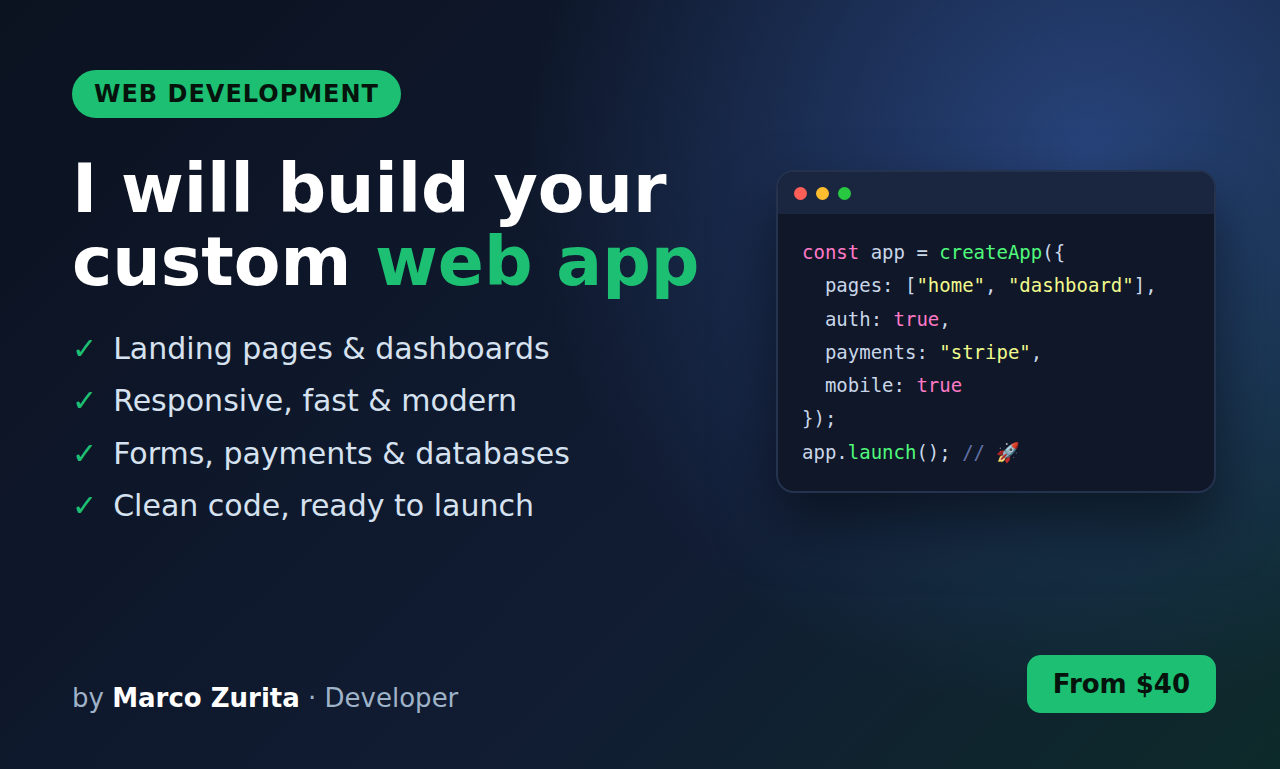
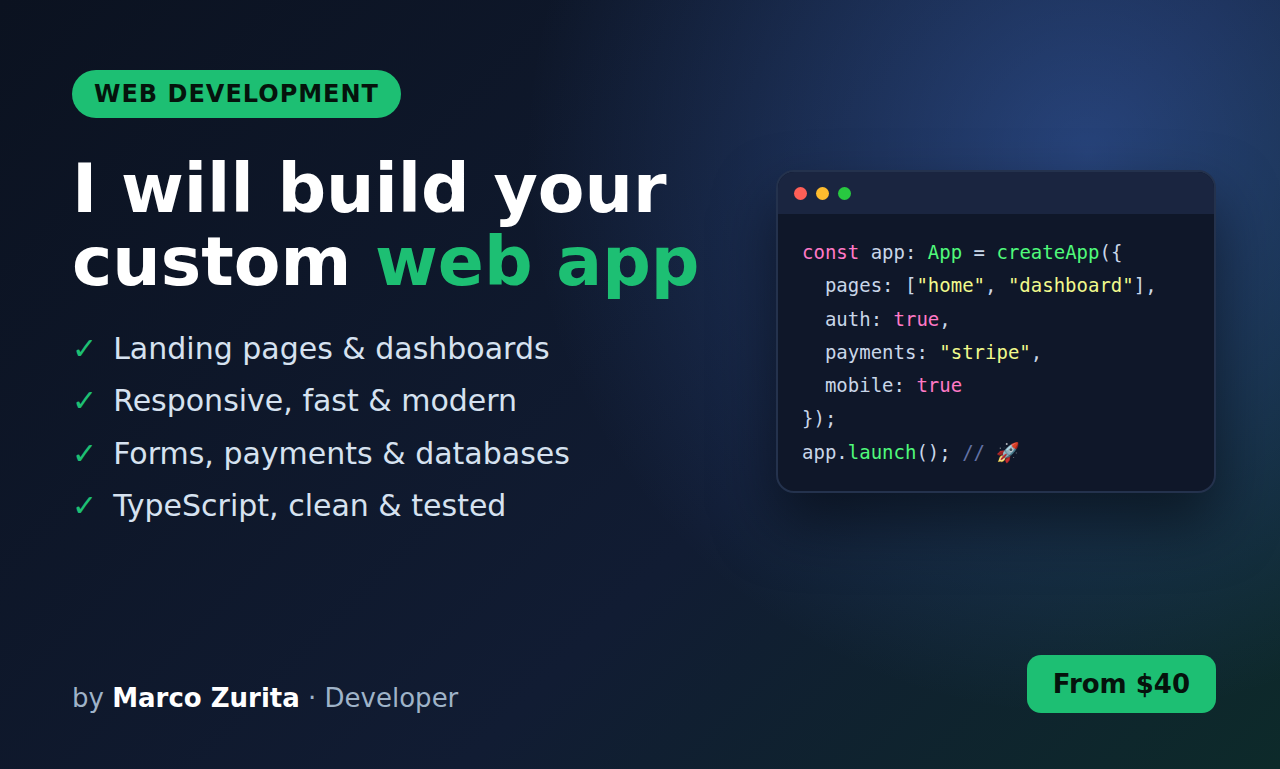
Update gig covers to Playwright, TypeScript and Python
Claude-Session: https://claude.ai/code/session_01JYi9UtEfbSyWFLda4yBc9V

Changed region(s): [[0.0938, 0.6242, 0.4062, 0.6866], [0.7188, 0.3121, 0.875, 0.3433]]

diff --git a/fiverr/render.js b/fiverr/render.js
@@ -4,7 +4,7 @@ const tpl = fs.readFileSync('cover.html','utf8');
 const covers = [
  {file:'gig1-automation.png', glow:'rgba(29,191,115,.35)', tag:'BUSINESS AUTOMATION',
   title:'I will <span>automate</span> your repetitive tasks',
-  list:['Python &amp; Selenium bots','Excel, email &amp; data workflows','Web scraping &amp; API integrations','Save hours every week'],
+  list:['Python &amp; Playwright bots','Excel, email &amp; data workflows','Web scraping &amp; API integrations','Save hours every week'],
   code:`<span class="cm"># runs every morning</span>
 <span class="k">def</span> <span class="f">daily_report</span>():
   data = scrape(<span class="s">"site.com"</span>)
@@ -14,8 +14,8 @@ const covers = [
 <span class="cm"># ✓ 3 hours saved/day</span>`, badge:'Fast delivery'},
  {file:'gig2-webapp.png', glow:'rgba(80,140,255,.35)', tag:'WEB DEVELOPMENT',
   title:'I will build your custom <span>web app</span>',
-  list:['Landing pages &amp; dashboards','Responsive, fast &amp; modern','Forms, payments &amp; databases','Clean code, ready to launch'],
-  code:`<span class="k">const</span> app = <span class="f">createApp</span>({
+  list:['Landing pages &amp; dashboards','Responsive, fast &amp; modern','Forms, payments &amp; databases','TypeScript, clean &amp; tested'],
+  code:`<span class="k">const</span> app: <span class="f">App</span> = <span class="f">createApp</span>({
   pages: [<span class="s">"home"</span>, <span class="s">"dashboard"</span>],
   auth: <span class="k">true</span>,
   payments: <span class="s">"stripe"</span>,
